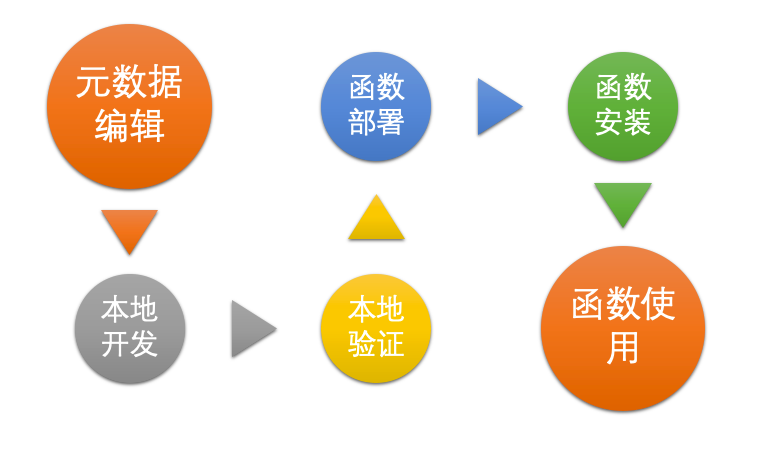
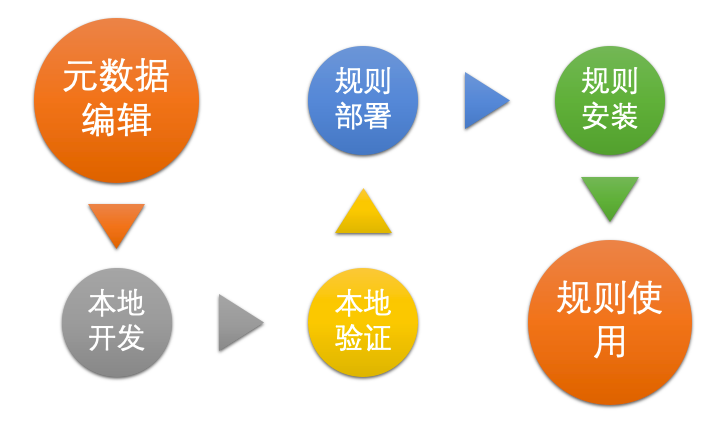
GitBook: [master] 13 pages and 2 assets modified

diff --git a/vplatform-plugin-dev-guide/kuai-su-ru-men/kai-fa-qian-duan-cha-jian/gui-ze-er-ci-kai-fa-ru-men.md b/vplatform-plugin-dev-guide/kuai-su-ru-men/kai-fa-qian-duan-cha-jian/gui-ze-er-ci-kai-fa-ru-men.md
@@ -5,3 +5,62 @@ description: >-
 
 # 规则二次开发入门
 
+## 开发流程
+
+        在进行前端规则二次开发之前，首先需要了解前端规则二次开发的开发流程，以便于在整体轮廓上理解二次开发流程。如下图
+
+![&#x89C4;&#x5219;&#x5F00;&#x53D1;&#x6D41;&#x7A0B;](../../../.gitbook/assets/image%20%287%29.png)
+
+## 元数据定义
+
+        在二次开发规则前，首先需要明确当前规则需求，确定当前规则名称、配置及返回值等信息。当以上信息固化下来后，规则元信息已经完成，以下为元数据详细描述，其内容格式：
+
+```text
+[{
+    type:"rule",//插件类型
+    code:"",//规则编号
+    name:"",//规则名称
+    desc:"",//规则描述
+    author:"",//开发者
+    entry:"",//规则主入口
+    scope:"",//规则应用范围
+    catalog:"",//规则所属目录
+    transactionType:"",//事务类型
+    defineUrl:"",//规则定义脚本文件url
+    debugUrl:""//规则测试脚本文件url
+    inputs:[{//使用数组，方便属性排序,可选
+		code:"",//属性编号，
+		name:""//属性名称，
+        type:"",//属性类型
+		desc:""//属性描述，
+		default:null//默认值,
+		editor:{//编辑器信息，可选
+			type:"",//编辑器类型
+		}
+	}],
+    outputs:[{
+        code:""//规则输出编号,
+        type:""//规则输出类型,
+        name:"",//规则输出名称,
+        desc:"",//规则输出描述,
+        fields:[{//输出类型为entity时,此属性生效
+            code:""//列编号,
+            type:""//列类型,
+            name:"",//列名称,
+            desc:""//列描述
+        }...]
+    }]
+}]
+
+```
+
+## 本地开发
+
+## 本地验证
+
+## 规则部署
+
+## 规则安装
+
+## 规则使用
+

diff --git a/vplatform-plugin-dev-guide/kuai-su-ru-men/kai-fa-qian-duan-cha-jian/han-shu-er-ci-kai-fa-ru-men.md b/vplatform-plugin-dev-guide/kuai-su-ru-men/kai-fa-qian-duan-cha-jian/han-shu-er-ci-kai-fa-ru-men.md
@@ -9,7 +9,7 @@ description: >-
 
          在进行前端函数二次开发之前，首先需要了解前端函数二次开发的开发流程，以便于在整体轮廓上理解二次开发流程。如下图
 
-![&#x51FD;&#x6570;&#x5F00;&#x53D1;&#x6D41;&#x7A0B;&#x56FE;](../../../.gitbook/assets/image%20%287%29.png)
+![&#x51FD;&#x6570;&#x5F00;&#x53D1;&#x6D41;&#x7A0B;&#x56FE;](../../../.gitbook/assets/image%20%288%29.png)
 
 ## 元数据编辑
 
